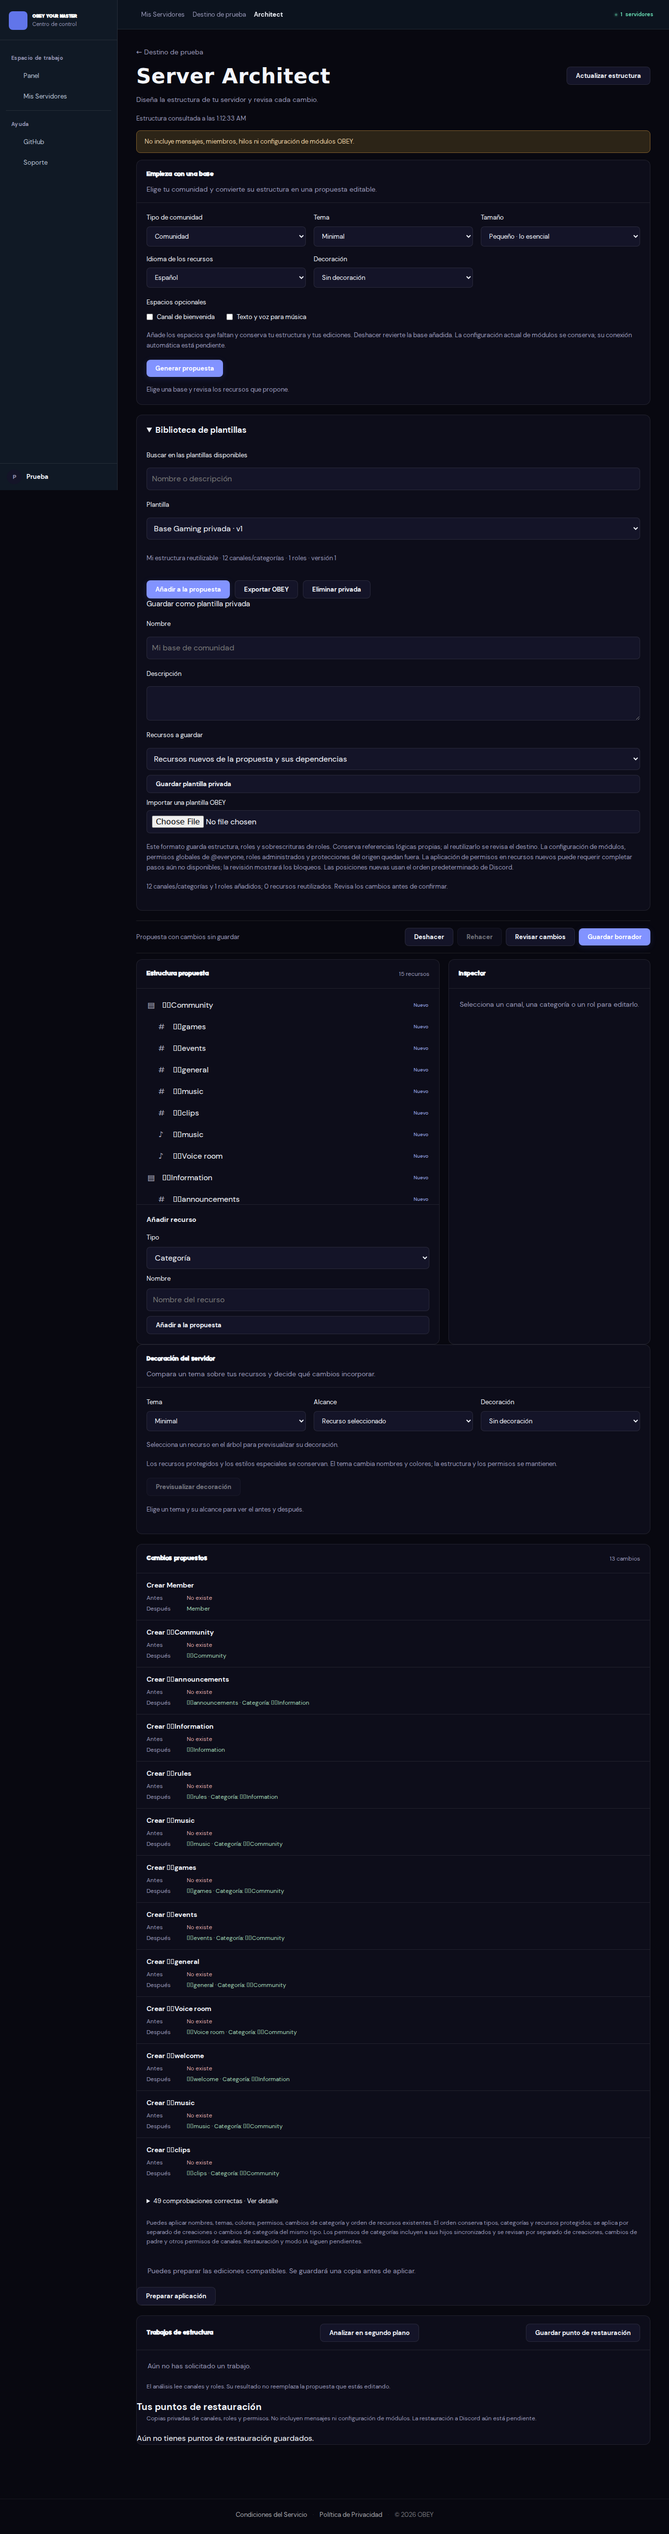
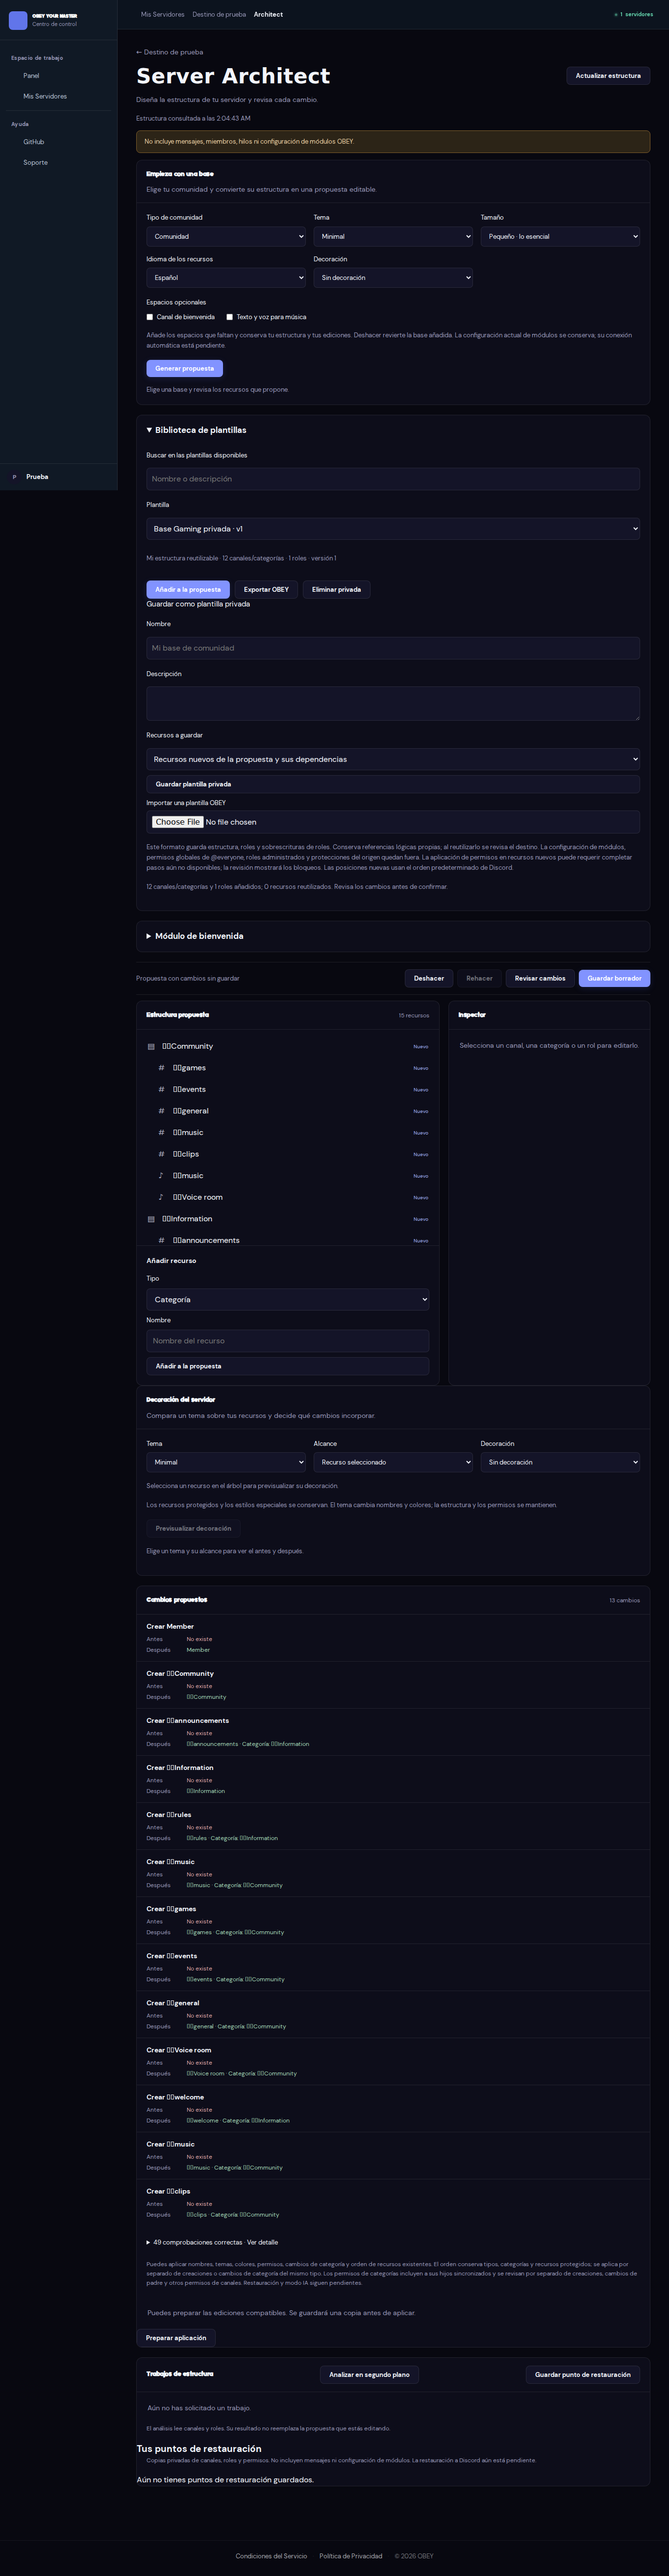
chore: preserve pending dashboard work for project handoff
Save the existing Architect welcome editor integration and browser evidence exactly as found before the music fixes. These dashboard changes are available on the branch for external planning; the current bot deployment remains on the separately recorded music release.

diff --git a/dashboard/public/js/architect-editor.js b/dashboard/public/js/architect-editor.js
@@ -8,6 +8,7 @@
   let permissionRoleId = ''
   let decorationUI = null
   let templateUI = null
+  let welcomeUI = null
   const { permissionOptions, setRolePermission, setOverwritePermission, formatPermissions } = architectPermissions
   const order = (a, b) => a.type - b.type || a.position - b.position || a.id.localeCompare(b.id)
   const labels = { name: 'Nombre', topic: 'Tema', color: 'Color', permissions: 'Permisos', overwrites: 'Permisos del canal', nsfw: 'Contenido restringido', hoist: 'Mostrar rol separado', mentionable: 'Rol mencionable' }
@@ -15,6 +16,7 @@
   function buttons() {
     decorationUI?.update()
     templateUI?.update()
+    welcomeUI?.update()
     $('architect-wizard-fields').disabled = busy || !editor
     $('architect-workspace').disabled = busy || !editor
     $('architect-refresh').disabled = busy
@@ -26,8 +28,8 @@
     $('architect-confirm-application').hidden = !applicationPlan
     $('architect-confirm-application').disabled = busy || !applicationPlan
   }
-  async function request(path = '', options) {
-    const response = await fetch(base + path, options)
+  async function request(path = '', options, endpoint = base) {
+    const response = await fetch(endpoint + path, options)
     const body = await response.json().catch(() => ({}))
     if (!response.ok || !body.ok) {
       const messages = { revision_conflict: 'La estructura de Discord cambió. Actualiza el servidor antes de revisar o guardar.',
@@ -39,11 +41,12 @@
       messages.invalid_decoration = 'Revisa el tema y el alcance de decoración seleccionados.'
       messages.decoration_name_limit = 'La decoración supera los 100 caracteres de un nombre. Acorta ese nombre o elige menos decoración.'
       Object.assign(messages,{invalid_template:'El archivo o los datos no corresponden a una plantilla OBEY válida.',template_unsupported:'La selección incluye miembros, tipos avanzados o estilos/referencias de roles que aún no se pueden trasladar. Guarda una selección de recursos nuevos compatibles.',template_conflict:'Un recurso del destino tiene el mismo nombre con atributos diferentes, o la categoría está protegida. Revisa esa estructura antes de añadir la plantilla.',template_not_found:'La plantilla no está disponible para tu cuenta.'})
+      Object.assign(messages,{configuration_conflict:'La bienvenida cambió en otra interfaz. Pulsa Actualizar bienvenida y revisa los valores antes de volver a guardar.',configuration_storage:'El almacenamiento de bienvenida no está disponible. No se confirmó el guardado.',invalid_configuration:'Revisa el canal y el mensaje de bienvenida; el mensaje admite hasta 500 caracteres.',configuration_permissions:'No se verificó el acceso necesario al canal para publicar bienvenidas.'})
       Object.assign(messages, { application_unsupported: 'Separa el orden de creaciones o cambios de categoría del mismo tipo. Revisa una categoría y sus hijos sincronizados por aplicación, sin creaciones, cambios de padre ni otros permisos de canales.',
         application_conflict: 'La confirmación no coincide con el plan revisado. Prepara una aplicación nueva.', application_expired: 'El plan caducó. Prepara una aplicación nueva.',
         application_blocked: 'Los permisos actuales impiden aplicar esta propuesta. Revisa los controles.', apply_unavailable: 'La aplicación requiere un servidor canary habilitado.',
         jobs_unavailable: 'Los trabajos no están disponibles. El plan aún no se ha enviado.', application_not_found: 'El plan ya no está disponible. Prepara uno nuevo.' })
-      if ([401, 403].includes(response.status) || response.status===404 && body.error!=='template_not_found') { if([401,403].includes(response.status))templateUI?.clear();applicationPlan = null; applyAvailable = false; buttons() }
+      if (response.status===401 || response.status===403&&body.error!=='configuration_permissions' || response.status===404 && body.error!=='template_not_found') { if([401,403].includes(response.status)){templateUI?.clear();welcomeUI?.clear()}applicationPlan = null; applyAvailable = false; buttons() }
       throw new Error(messages[body.error] || 'No se pudo completar la solicitud.')
     }
     return body
@@ -53,6 +56,7 @@
     accept: body => { editor.change(next => Object.assign(next, body.blueprint)); changed(); review(body) },
     setBusy: value => { busy = value; if (value) applicationPlan = null; buttons() } })
   templateUI=initArchitectTemplates({request,post,state:()=>({blueprint:editor?.current(),busy}),accept:body=>{editor.change(next=>Object.assign(next,body.blueprint));changed();review(body)},setBusy:value=>{busy=value;if(value)applicationPlan=null;buttons()}})
+  welcomeUI=initArchitectWelcome({request:body=>request('/welcome',body?{method:'POST',headers:{'Content-Type':'application/json'},body:JSON.stringify(body)}:undefined,`/api/config/${encodeURIComponent(app.dataset.guildId)}`),state:()=>({busy,channels:source?.channels}),setBusy:value=>{busy=value;if(value)applicationPlan=null;buttons()}})
   function changed() {
     applicationPlan = null
     $('architect-application-status').textContent = applyAvailable ? 'Puedes preparar las ediciones compatibles. Se guardará una copia antes de aplicar.' : 'La aplicación requiere un servidor canary habilitado.'
@@ -165,6 +169,7 @@
       status(`Estructura consultada a las ${new Date(source.capturedAt).toLocaleTimeString()}`)
       changed()
       await templateUI.refresh()
+      await welcomeUI.refresh(source.channels)
     } catch (error) { status(error.message, true) }
     finally { busy = false; buttons() }
   }

diff --git a/dashboard/public/js/architect-welcome.js b/dashboard/public/js/architect-welcome.js
@@ -1,0 +1,26 @@
+(function(root){
+ root.initArchitectWelcome=function({request,state,setBusy}){
+  const $=id=>document.getElementById(`architect-welcome-${id}`)
+  let revision=null,sequence=0
+  function update(){$('fields').disabled=state().busy||!revision}
+  function clear(){sequence++;revision=null;$('channel').replaceChildren();$('message').value='';update()}
+  function display(config){revision=config.revision;$('channel').value=config.channelId||'';$('message').value=config.message;update()}
+  async function refresh(channels){
+   const token=++sequence,selected=$('channel').value
+   $('channel').replaceChildren(new Option('Desactivado',''),...channels.filter(channel=>channel.type===0&&!channel.id.startsWith('local:')).map(channel=>new Option(`#${channel.name}`,channel.id)))
+   if([...$('channel').options].some(option=>option.value===selected))$('channel').value=selected
+   $('status').textContent='Leyendo la configuración de bienvenida…'
+   try{const body=await request();if(token!==sequence)return;display(body.configuration);$('status').textContent='Configuración actual cargada. Puedes elegir un canal y guardar el mensaje.'}
+   catch(error){if(token!==sequence)return;clear();$('status').textContent=error.message}
+  }
+  $('form').addEventListener('submit',async event=>{
+   event.preventDefault();if(!revision||state().busy)return
+   setBusy(true);$('status').textContent='Guardando bienvenida…'
+   try{const body=await request({channelId:$('channel').value||null,message:$('message').value,revision});display(body.configuration);$('status').textContent='Bienvenida guardada. Web y Discord utilizan esta configuración.'}
+   catch(error){$('status').textContent=error.message}
+   finally{setBusy(false)}
+  })
+  $('reload').addEventListener('click',()=>{if(!state().busy)refresh(state().channels||[])})
+  return{refresh,update,clear}
+ }
+})(window)
